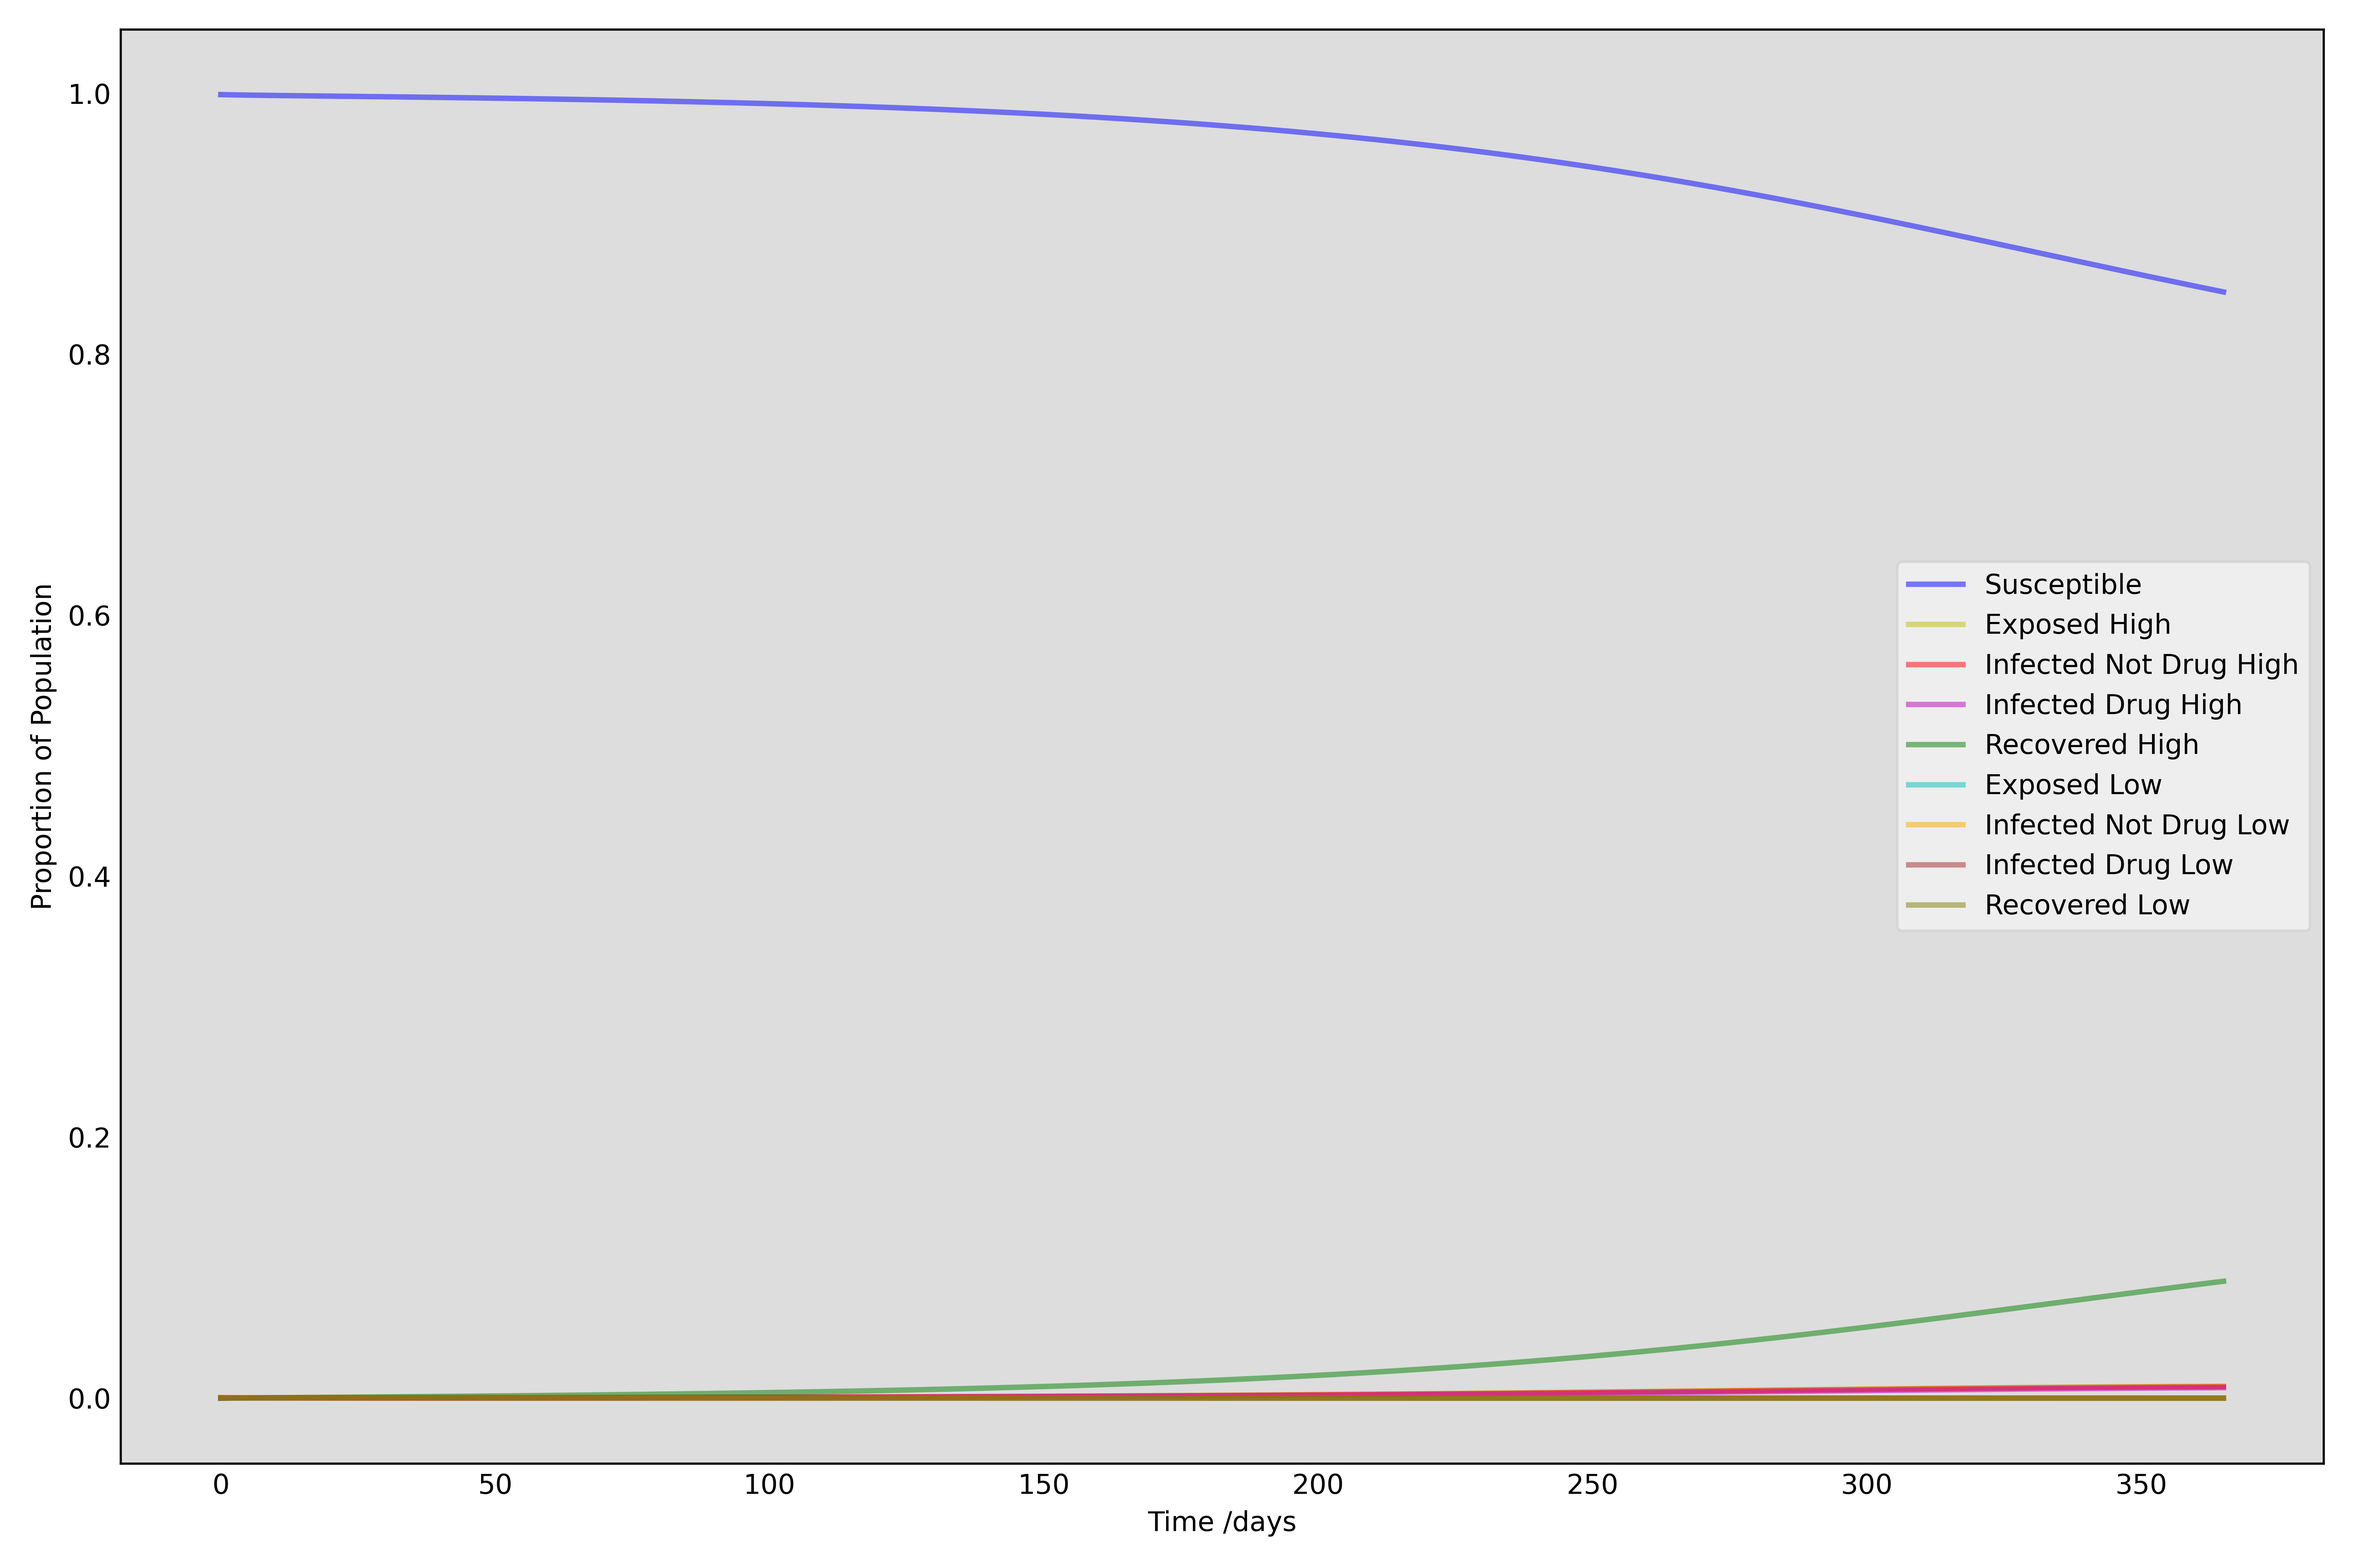
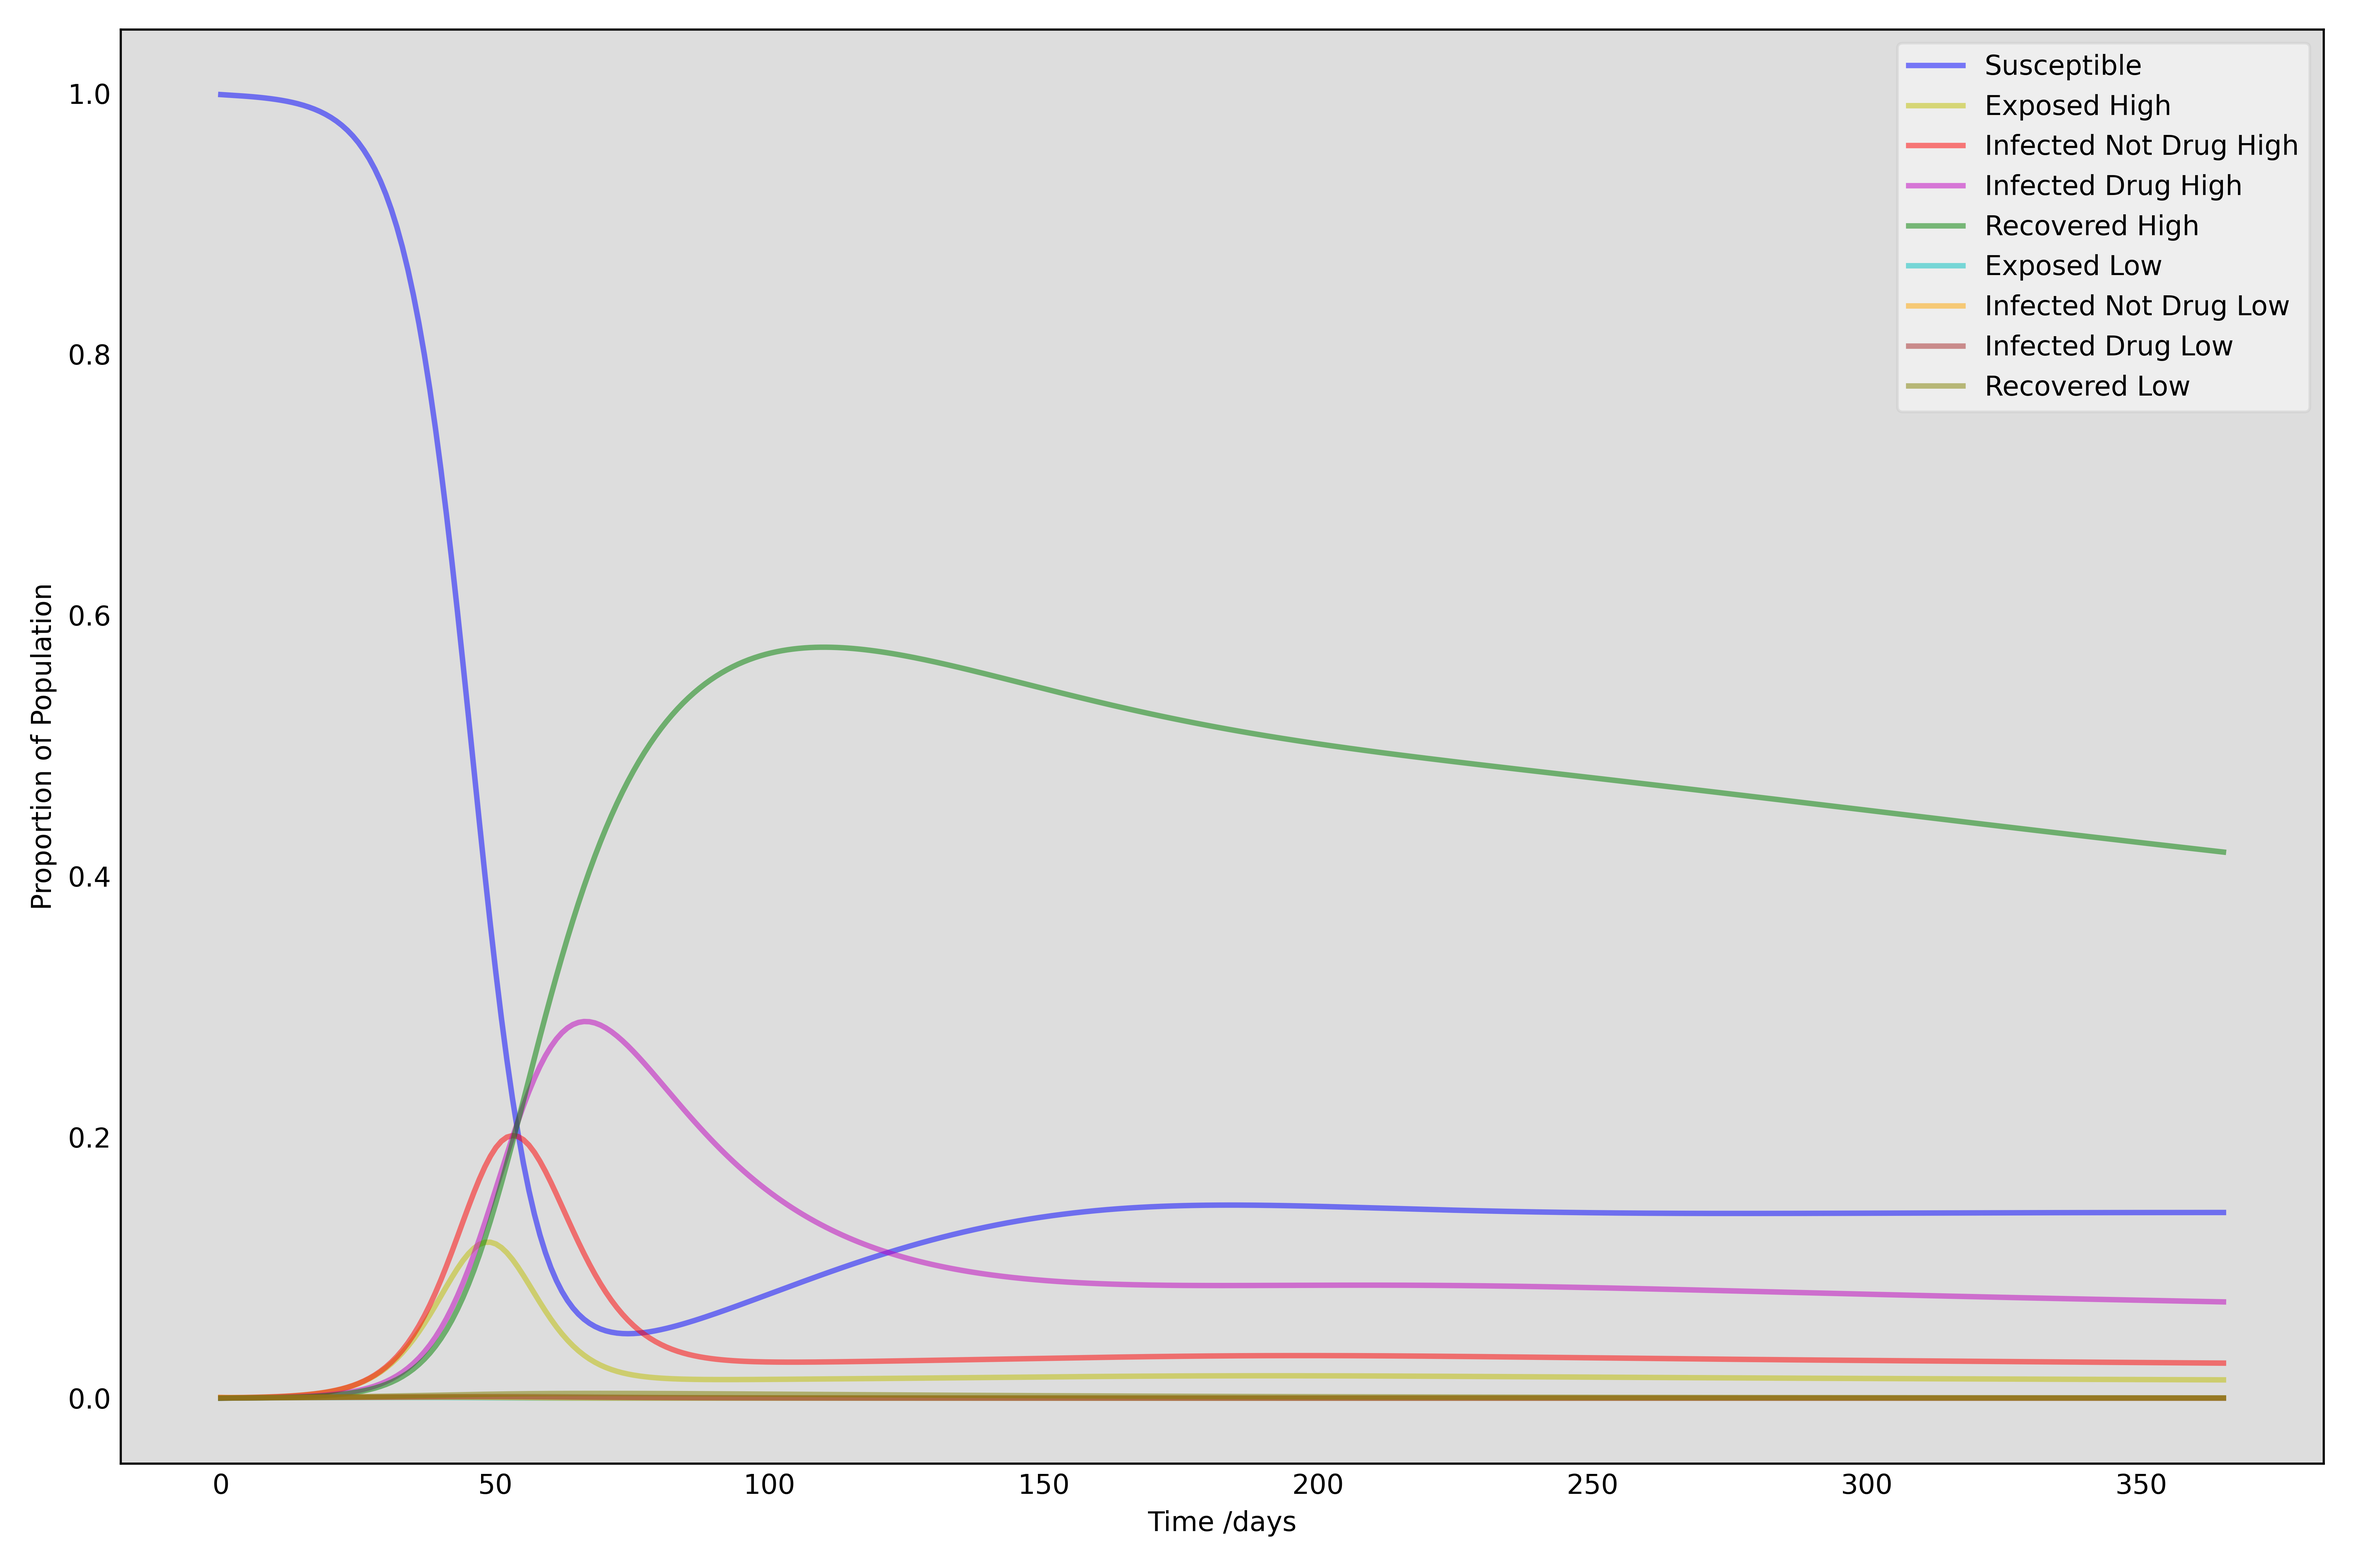
Refactor model parameters in First_draft.py for improved accuracy: adjust recovery rate, progression rate, and transmission parameters; add sensitivity tornado plot.

diff --git a/Scripts/MG_modelling/First_draft.py b/Scripts/MG_modelling/First_draft.py
@@ -23,16 +23,16 @@ pop_values = pop_values / np.sum(pop_values)  # Normalize to proportions
 #%% Parameters
 # Define model parameters
 theta = 0.3  # Proportion of exposed who will eventually take the drug
-p_recover = 1.0  # Drug effect on recovery
+p_recover = 0.5  # Drug effect on recovery
 phi_transmission = 1.3  # High virulence transmission multiplier
 phi_recover = 0.75  # High virulence recovery reduction
-sigma = 1/7  # Recovery rate
+sigma = 1/10  # Recovery rate
 delta = 1/90  # Immunity loss rate
-tau = 1/5  # Progression from exposed to infectious
+tau = 1/3  # Progression from exposed to infectious
 delta_d = 1/3  # Delay rate for starting drug (~3 days)
 birth_rate = 0.0
 death_rate = 0.0
-beta_l = 0.1
+beta_l = 0.25
 
 
 # Pack parameters into a tuple
